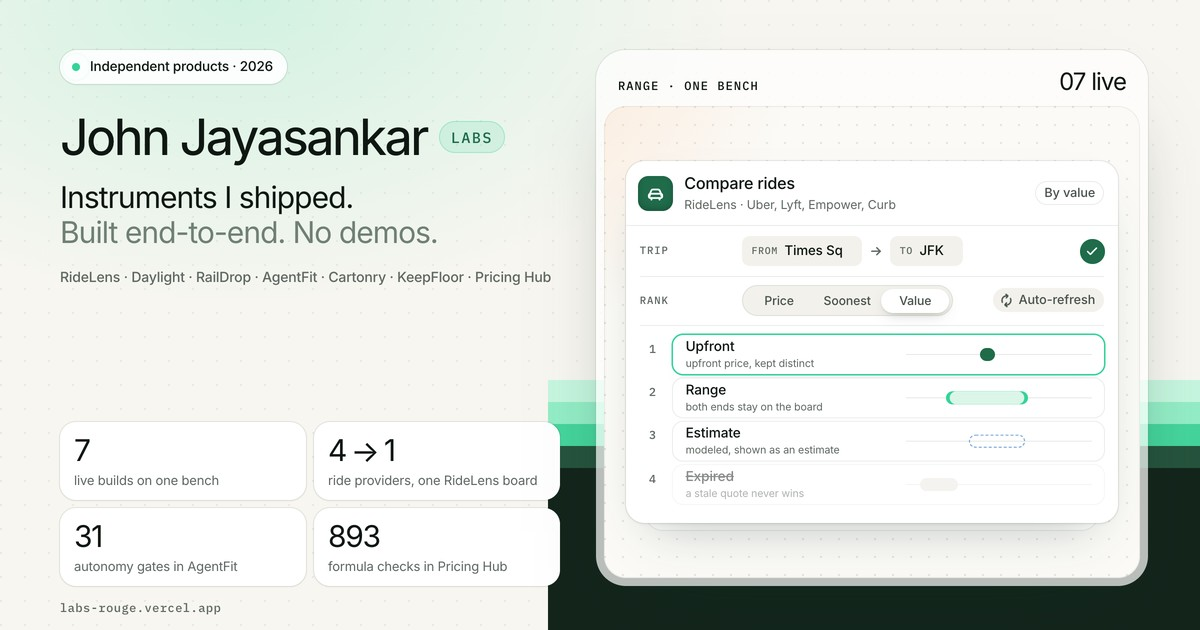
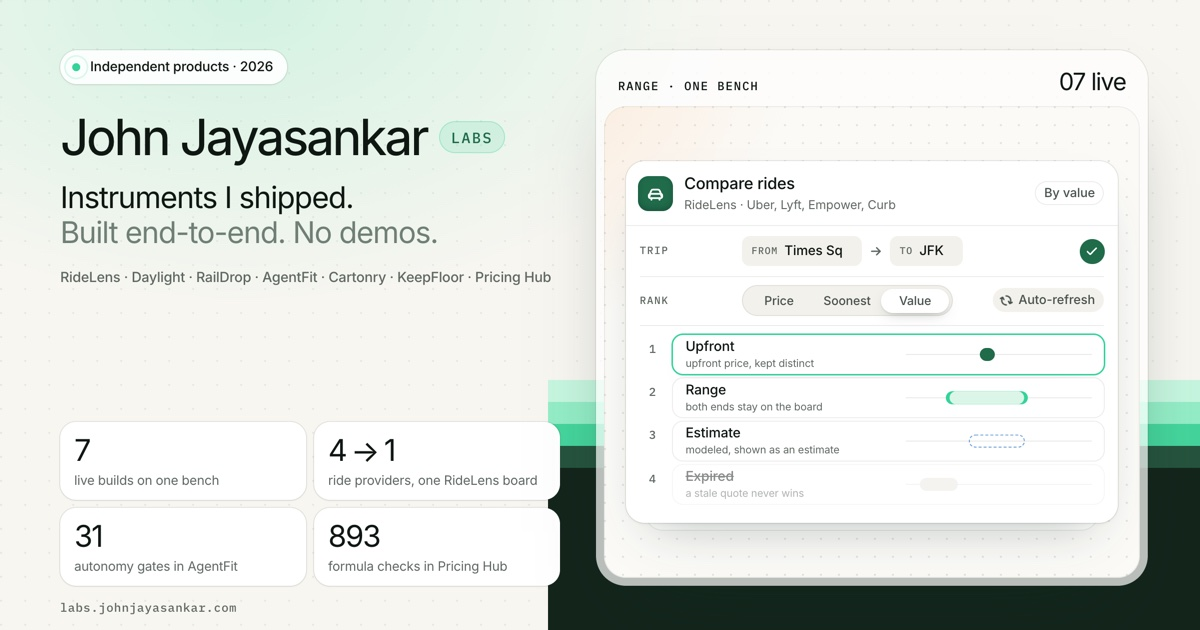
vfinal

diff --git a/_og.html b/_og.html
@@ -55,7 +55,7 @@ body { width: 1200px; height: 630px; }
     <p class="og__head"><span>Range · one bench</span><span>07 live</span></p>
     <div class="story story--labs story--ridelens" data-story="ridelens" data-steps="4" data-step="3" role="img" aria-label="Illustrative interface: one trip mapped once on live roads across Uber, Lyft, Empower and Curb, and the same quotes ranked by price, soonest pickup or value, with upfront prices, ranges and estimates kept distinct and expired quotes never on top."><div class="s-in" aria-hidden="true"><div class="s-frame"><div class="s-win s-win--wide"><div class="s-bar"><span class="s-app"><svg class="s-ico" viewBox="0 0 16 16" fill="none" stroke="currentColor" stroke-width="1.5" stroke-linecap="round" stroke-linejoin="round" aria-hidden="true" focusable="false"><path d="M3.2 10V8.4l1.3-2.9a1.5 1.5 0 0 1 1.4-.9h4.2a1.5 1.5 0 0 1 1.4.9l1.3 2.9V10"/><rect x="2.4" y="8.2" width="11.2" height="3.6" rx="1.3"/><path d="M4.6 11.8v1.4M11.4 11.8v1.4"/></svg></span><span class="s-ttl"><b>Compare rides</b><small>RideLens · Uber, Lyft, Empower, Curb</small></span><span class="s-swap"><span class="s-fx s-chip s-chip--sky" data-on="0"><svg class="s-ico" viewBox="0 0 16 16" fill="none" stroke="currentColor" stroke-width="1.5" stroke-linecap="round" stroke-linejoin="round" aria-hidden="true" focusable="false"><circle cx="4" cy="12" r="1.6"/><circle cx="12" cy="4" r="1.6"/><path d="M5.4 11.3c3.2-1 .3-5 3.6-6.4l1.5-.5"/></svg><span>Route mapped once</span></span><span class="s-fx s-chip" data-on="1"><span>By price</span></span><span class="s-fx s-chip" data-on="2"><span>By soonest pickup</span></span><span class="s-fx s-chip is-on" data-on="3"><span>By value</span></span></span></div><div class="s-body"><div class="s-row"><span class="s-k">Trip</span><span class="s-cell"><span class="s-fields"><span class="s-field"><span class="s-field__k">From</span><span class="s-type" data-on="0" style="--n:8;--td:0.3s">Times Sq</span><i class="s-caret"></i></span><i class="s-field__to"><svg class="s-ico" viewBox="0 0 16 16" fill="none" stroke="currentColor" stroke-width="1.5" stroke-linecap="round" stroke-linejoin="round" aria-hidden="true" focusable="false"><path d="M3 8h9.5M8.5 4l4 4-4 4"/></svg></i><span class="s-field"><span class="s-field__k">To</span><span class="s-type" data-on="0" style="--n:3;--td:1.05s">JFK</span><i class="s-caret"></i></span></span></span><span class="s-swap s-swap--st"><span class="s-fx s-st s-st--busy" data-on="0"><i class="s-spin"></i></span><span class="s-fx s-st s-st--done is-on" data-on="1-"><svg class="s-ico" viewBox="0 0 16 16" fill="none" stroke="currentColor" stroke-width="1.5" stroke-linecap="round" stroke-linejoin="round" aria-hidden="true" focusable="false"><path d="M3.6 8.4l2.8 2.8L12.4 5"/></svg></span></span></div><div class="s-row"><span class="s-k">Rank</span><span class="s-cell"><span class="s-swap"><span class="s-fx" data-on="0"><span class="s-chips"><span class="s-btn s-press" data-on="0" style="--cd:1.7s"><span>Compare</span><span class="s-ptr"><svg class="s-cursor" viewBox="0 0 16 16" aria-hidden="true" focusable="false"><path d="M3.2 1.8l9.6 5.7-4.4.9 2.7 4.7-1.9 1.1-2.7-4.7-3.3 3.1z" fill="#fff" stroke="#0f1712" stroke-width="1.1" stroke-linejoin="round"/></svg><span class="s-ptr__tag">You</span></span></span><span class="s-kbd"><kbd>⌘</kbd><kbd>Enter</kbd></span></span></span><span class="s-fx is-on" data-on="1-"><span class="s-seg s-seg--3"><span class="s-seg__b">Price</span><span class="s-seg__b">Soonest</span><span class="s-seg__b">Value</span><i class="s-var s-seg__ind" style="--v0:0;--v1:0;--v2:1;--v3:2"></i></span></span></span></span><span class="s-swap s-swap--end s-hide-sm"><span class="s-fx is-on" data-on="1-" style="--d:4"><span class="s-chip s-chip--soft s-spinico"><svg class="s-ico" viewBox="0 0 16 16" fill="none" stroke="currentColor" stroke-width="1.5" stroke-linecap="round" stroke-linejoin="round" aria-hidden="true" focusable="false"><path d="M12.6 6.2A4.9 4.9 0 0 0 3.6 6M3.4 9.8a4.9 4.9 0 0 0 9 .2"/><path d="M12.8 3.3v2.9H9.9M3.2 12.7V9.8h2.9"/></svg><span>Auto-refresh</span></span></span></span></div><div class="s-quotes"><span class="s-ranks"><i>1</i><i>2</i><i>3</i><i>4</i></span><span class="s-qlist"><span class="s-var s-q s-q--solid is-on" data-on="3" style="--v0:1;--v1:1;--v2:1;--v3:0"><span class="s-q__t"><b>Upfront</b><small>upfront price, kept distinct</small></span><span class="s-q__viz"><i></i></span></span><span class="s-var s-q s-q--range" data-on="1" style="--v0:0;--v1:0;--v2:2;--v3:1"><span class="s-q__t"><b>Range</b><small>both ends stay on the board</small></span><span class="s-q__viz"><i></i></span></span><span class="s-var s-q s-q--dash" data-on="2" style="--v0:2;--v1:2;--v2:0;--v3:2"><span class="s-q__t"><b>Estimate</b><small>modeled, shown as an estimate</small></span><span class="s-q__viz"><i></i></span></span><span class="s-var s-q s-q--gone" style="--v0:3;--v1:3;--v2:3;--v3:3"><span class="s-q__t"><b>Expired</b><small>a stale quote never wins</small></span><span class="s-q__viz"><i></i></span></span></span><span class="s-fx s-qskel" data-on="0"><span class="s-qwait"><span class="s-skels"><i class="s-skel s-busy" style="--w:9em"></i><i class="s-skel s-busy" style="--w:5em"></i></span><span class="s-skels"><i class="s-skel s-busy" style="--w:9em"></i><i class="s-skel s-busy" style="--w:5em"></i></span><span class="s-skels"><i class="s-skel s-busy" style="--w:9em"></i><i class="s-skel s-busy" style="--w:5em"></i></span><span class="s-skels"><i class="s-skel s-busy" style="--w:9em"></i><i class="s-skel s-busy" style="--w:5em"></i></span></span></span></div></div><span class="s-fx s-float s-float--tr s-note" data-on="0"><span class="s-tile s-tile--sky"><svg class="s-ico" viewBox="0 0 16 16" fill="none" stroke="currentColor" stroke-width="1.5" stroke-linecap="round" stroke-linejoin="round" aria-hidden="true" focusable="false"><circle cx="4" cy="12" r="1.6"/><circle cx="12" cy="4" r="1.6"/><path d="M5.4 11.3c3.2-1 .3-5 3.6-6.4l1.5-.5"/></svg></span><span><b>Live roads</b><small>one route, four providers</small></span></span><span class="s-fx s-float s-float--bl is-on" data-on="1-3"><span class="s-chip s-chip--ink"><span>Final fare confirmed in the provider app</span></span></span></div></div></div></div>
   </div>
-  <p class="og__dom">labs-rouge.vercel.app</p>
+  <p class="og__dom">labs.johnjayasankar.com</p>
 </div>
 </body>
 </html>

diff --git a/index.html b/index.html
@@ -5,7 +5,7 @@
 <meta name="viewport" content="width=device-width, initial-scale=1, viewport-fit=cover">
 <title>Labs · John Jayasankar</title>
 <meta name="description" content="Independent products John Jayasankar shipped: RideLens, Daylight, RailDrop, and other instruments.">
-<link rel="canonical" href="https://labs-rouge.vercel.app/">
+<link rel="canonical" href="https://labs.johnjayasankar.com/">
 <meta name="author" content="John Jayasankar">
 <meta name="robots" content="index, follow">
 <meta name="theme-color" content="#f8f6f1">
@@ -14,20 +14,20 @@
 <meta property="og:type" content="website">
 <meta property="og:title" content="Labs · John Jayasankar">
 <meta property="og:description" content="Independent products, shipped.">
-<meta property="og:url" content="https://labs-rouge.vercel.app/">
-<meta property="og:image" content="https://labs-rouge.vercel.app/assets/img/og.jpg?v=46bf2cf2d0">
+<meta property="og:url" content="https://labs.johnjayasankar.com/">
+<meta property="og:image" content="https://labs.johnjayasankar.com/assets/img/og.jpg?v=4030ed2b22">
 <meta property="og:image:width" content="1200">
 <meta property="og:image:height" content="630">
 <meta property="og:image:alt" content="Labs · John Jayasankar · independent products, shipped">
 <meta name="twitter:card" content="summary_large_image">
 <meta name="twitter:title" content="Labs · John Jayasankar">
 <meta name="twitter:description" content="Independent products, shipped.">
-<meta name="twitter:image" content="https://labs-rouge.vercel.app/assets/img/og.jpg?v=46bf2cf2d0">
+<meta name="twitter:image" content="https://labs.johnjayasankar.com/assets/img/og.jpg?v=4030ed2b22">
 <meta name="twitter:image:alt" content="Labs · John Jayasankar · independent products, shipped">
 <link rel="icon" href="/assets/img/favicon.svg" type="image/svg+xml">
 <link rel="preload" href="/assets/fonts/inter-var.woff2" as="font" type="font/woff2" crossorigin>
 <link rel="stylesheet" href="/assets/css/site.css?v=977c921a2c">
-<script type="application/ld+json">{"@context": "https://schema.org", "@type": "CollectionPage", "name": "Labs · John Jayasankar", "url": "https://labs-rouge.vercel.app/", "description": "Independent products John Jayasankar shipped: RideLens, Daylight, RailDrop, and other instruments.", "author": {"@type": "Person", "name": "John Jayasankar", "url": "https://johnjayasankar.com/"}, "hasPart": [{"@type": "CreativeWork", "name": "RideLens", "description": "Every ride, one comparison.", "url": "https://ride-lens2.vercel.app/"}, {"@type": "CreativeWork", "name": "Daylight", "description": "Your screen, through the day.", "url": "https://daylight-app-wine.vercel.app/"}, {"@type": "CreativeWork", "name": "RailDrop", "description": "Know when your train gets cheaper.", "url": "https://rail-drop3.vercel.app/"}, {"@type": "CreativeWork", "name": "AgentFit", "description": "When should a workflow get an agent?", "url": "https://agent-fit2.vercel.app/"}, {"@type": "CreativeWork", "name": "Cartonry", "description": "Packaging dielines - cut, crease, fold, cost.", "url": "https://cartonry.vercel.app/"}, {"@type": "CreativeWork", "name": "KeepFloor", "description": "The Etsy list price that still pays you.", "url": "https://keep-floor.vercel.app/"}, {"@type": "CreativeWork", "name": "Pricing Hub", "description": "Contractor job costing, estimate to invoice.", "url": "https://pricing-hub-seven.vercel.app/"}]}</script>
+<script type="application/ld+json">{"@context": "https://schema.org", "@type": "CollectionPage", "name": "Labs · John Jayasankar", "url": "https://labs.johnjayasankar.com/", "description": "Independent products John Jayasankar shipped: RideLens, Daylight, RailDrop, and other instruments.", "author": {"@type": "Person", "name": "John Jayasankar", "url": "https://johnjayasankar.com/"}, "hasPart": [{"@type": "CreativeWork", "name": "RideLens", "description": "Every ride, one comparison.", "url": "https://ride-lens2.vercel.app/"}, {"@type": "CreativeWork", "name": "Daylight", "description": "Your screen, through the day.", "url": "https://daylight-app-wine.vercel.app/"}, {"@type": "CreativeWork", "name": "RailDrop", "description": "Know when your train gets cheaper.", "url": "https://rail-drop3.vercel.app/"}, {"@type": "CreativeWork", "name": "AgentFit", "description": "When should a workflow get an agent?", "url": "https://agent-fit2.vercel.app/"}, {"@type": "CreativeWork", "name": "Cartonry", "description": "Packaging dielines - cut, crease, fold, cost.", "url": "https://cartonry.vercel.app/"}, {"@type": "CreativeWork", "name": "KeepFloor", "description": "The Etsy list price that still pays you.", "url": "https://keep-floor.vercel.app/"}, {"@type": "CreativeWork", "name": "Pricing Hub", "description": "Contractor job costing, estimate to invoice.", "url": "https://pricing-hub-seven.vercel.app/"}]}</script>
 </head>
 <body data-label="Labs">
 <a class="skip" href="#main">Skip to content</a>

diff --git a/404.html b/404.html
@@ -5,7 +5,7 @@
 <meta name="viewport" content="width=device-width, initial-scale=1, viewport-fit=cover">
 <title>Not found · Labs · John Jayasankar</title>
 <meta name="description" content="Independent products John Jayasankar shipped: RideLens, Daylight, RailDrop, and other instruments.">
-<link rel="canonical" href="https://labs-rouge.vercel.app/404">
+<link rel="canonical" href="https://labs.johnjayasankar.com/404">
 <meta name="author" content="John Jayasankar">
 <meta name="robots" content="noindex, follow">
 <meta name="theme-color" content="#f8f6f1">
@@ -14,15 +14,15 @@
 <meta property="og:type" content="website">
 <meta property="og:title" content="Not found · Labs · John Jayasankar">
 <meta property="og:description" content="Independent products, shipped.">
-<meta property="og:url" content="https://labs-rouge.vercel.app/404">
-<meta property="og:image" content="https://labs-rouge.vercel.app/assets/img/og.jpg?v=46bf2cf2d0">
+<meta property="og:url" content="https://labs.johnjayasankar.com/404">
+<meta property="og:image" content="https://labs.johnjayasankar.com/assets/img/og.jpg?v=4030ed2b22">
 <meta property="og:image:width" content="1200">
 <meta property="og:image:height" content="630">
 <meta property="og:image:alt" content="Labs · John Jayasankar · independent products, shipped">
 <meta name="twitter:card" content="summary_large_image">
 <meta name="twitter:title" content="Not found · Labs · John Jayasankar">
 <meta name="twitter:description" content="Independent products, shipped.">
-<meta name="twitter:image" content="https://labs-rouge.vercel.app/assets/img/og.jpg?v=46bf2cf2d0">
+<meta name="twitter:image" content="https://labs.johnjayasankar.com/assets/img/og.jpg?v=4030ed2b22">
 <meta name="twitter:image:alt" content="Labs · John Jayasankar · independent products, shipped">
 <link rel="icon" href="/assets/img/favicon.svg" type="image/svg+xml">
 <link rel="preload" href="/assets/fonts/inter-var.woff2" as="font" type="font/woff2" crossorigin>

diff --git a/tools/stories_lab.py b/tools/stories_lab.py
@@ -98,7 +98,7 @@ body { width: 1200px; height: 630px; }
     <p class="og__head"><span>Range · one bench</span><span>07 live</span></p>
     {{body}}
   </div>
-  <p class="og__dom">labs-rouge.vercel.app</p>
+  <p class="og__dom">{{domain}}</p>
 </div>
 </body>
 </html>
@@ -118,7 +118,7 @@ def main():
                          for label, w, ar in FRAMES)
         secs.append('<section class="lab-sec" data-lab="%s"><h2 class="lab-h">%s</h2><div class="lab-row">%s</div></section>' % (key, key, frames))
     write('_stories.html', LAB.replace('{{body}}', '\n'.join(secs)))
-    write('_og.html', OG.replace('{{body}}', stories.render('ridelens')))
+    write('_og.html', OG.replace('{{body}}', stories.render('ridelens')).replace('{{domain}}', D.SITE['domain'].split('://', 1)[-1]))
     print('wrote _stories.html and _og.html for %d stories' % len(keys))
 
 

diff --git a/tools/data.py b/tools/data.py
@@ -12,7 +12,7 @@ builds only Labs tells), draws one state per phase; the counts must match.
 
 SITE = dict(
     name='John Jayasankar',
-    domain='https://labs-rouge.vercel.app',
+    domain='https://labs.johnjayasankar.com',
     email='johnjayasankar@gmail.com',
     portfolio='https://johnjayasankar.com/',
     substack='https://substack.com/@johnjayasankar',

diff --git a/README.md b/README.md
@@ -1,6 +1,6 @@
 # John Jayasankar · Labs
 
-The site at labs-rouge.vercel.app: the independent products John shipped.
+The site at labs.johnjayasankar.com: the independent products John shipped.
 RideLens, Daylight and RailDrop are featured; AgentFit, Cartonry, KeepFloor and
 Pricing Hub are also shipped. Every build is told as a story, a schematic
 interface that steps through what the product does, and every build's short
@@ -23,10 +23,15 @@ needs no build step.
    output directory as the repository root. No environment variables.
 4. Deploy. Every push to the default branch redeploys.
 
-To replace the Labs site that is live now and keep the labs-rouge.vercel.app
-address, deploy this folder from the Vercel project that owns that address:
-push it to the repository that project is connected to, or connect this
-repository to it under **Settings → Git**.
+To replace the Labs site that is live now, deploy this folder from the Vercel
+project that owns labs-rouge.vercel.app: push it to the repository that project
+is connected to, or connect this repository to it under **Settings → Git**.
+
+The site's domain is labs.johnjayasankar.com (`./set-domain.sh` changes it). In
+that project open **Settings → Domains**, add `labs.johnjayasankar.com`, and
+Vercel serves it with HTTPS; because johnjayasankar.com already uses Vercel's
+nameservers, no DNS record has to be added by hand. The labs-rouge.vercel.app
+address keeps working, and can be set to redirect to the new domain there too.
 
 `vercel.json` is generated by the build. It supplies clean URLs, the seven
 short links below, caching and security headers, including the
